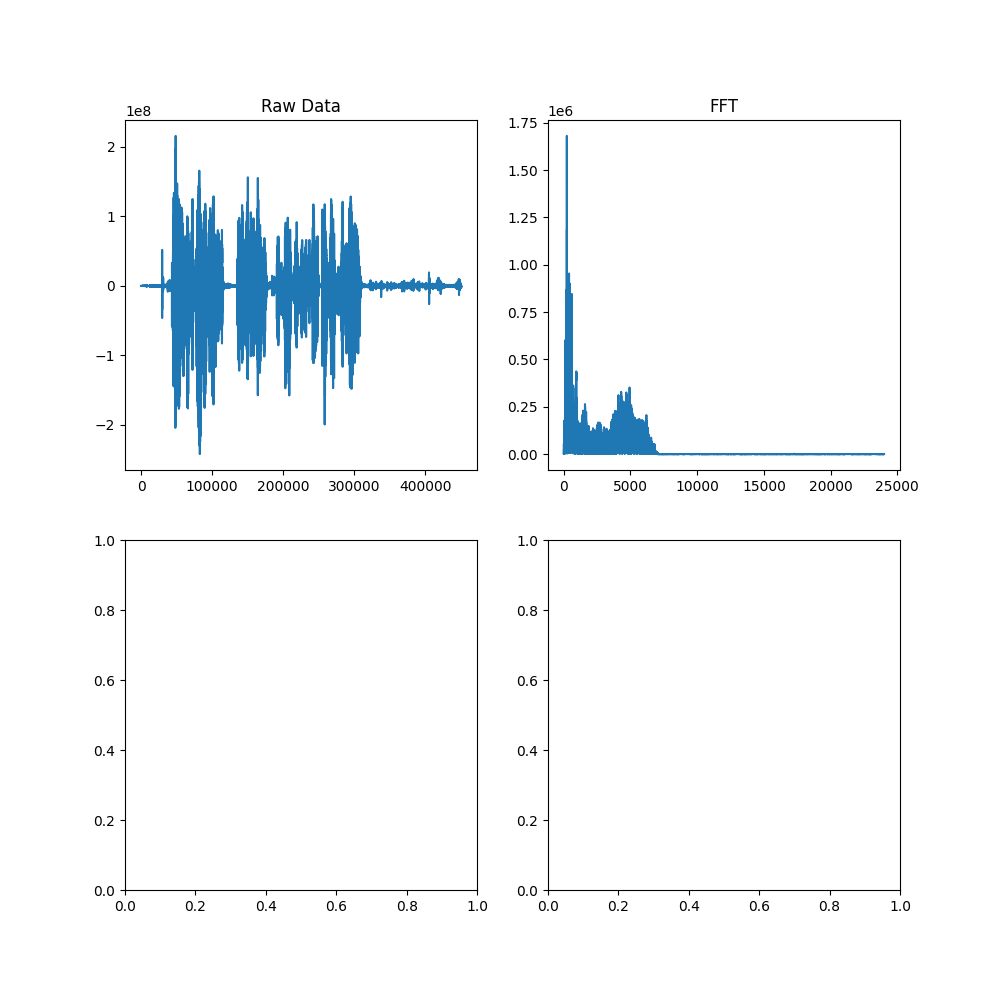
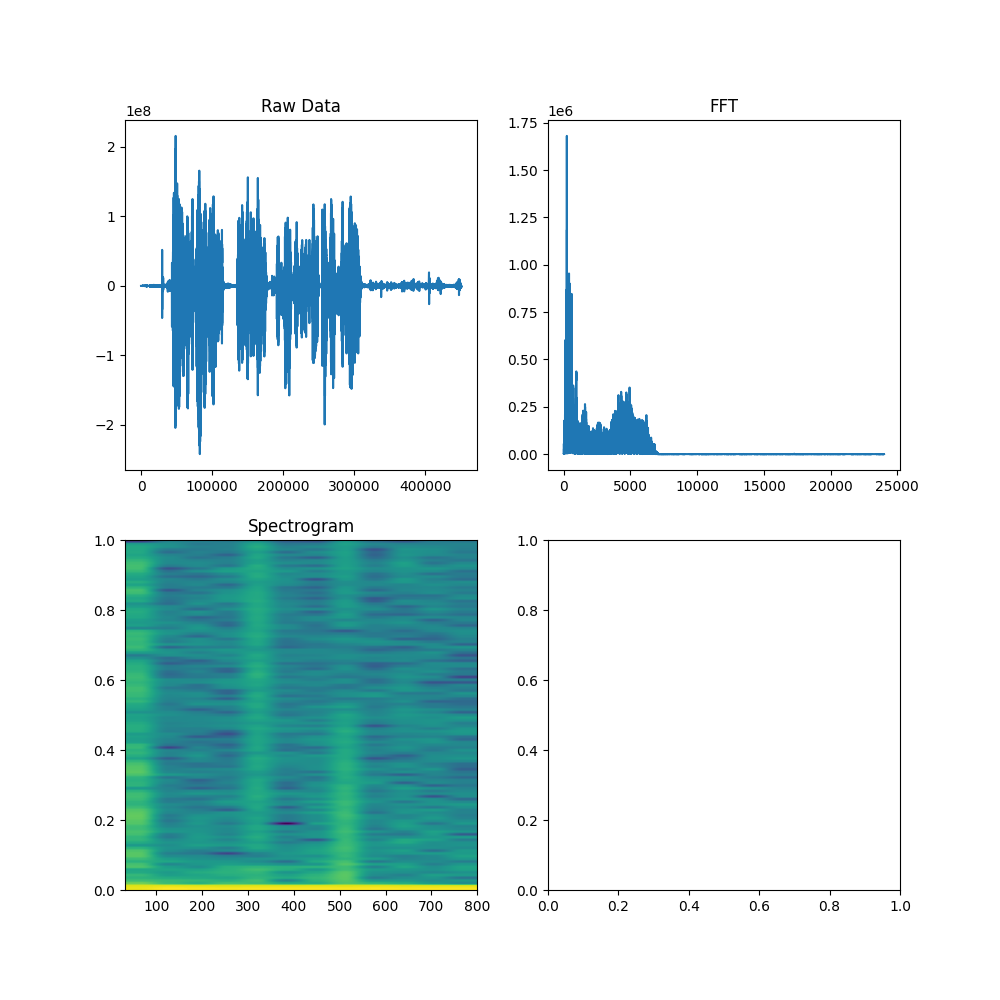
spectrogram!

Changed region(s): [[0.124, 0.496, 0.496, 0.93]]

diff --git a/scratchwork.py b/scratchwork.py
@@ -10,7 +10,7 @@ def wavHeader(wavefile: wave.Wave_read) -> dict:
             "Framerate": wavefile.getframerate(),
             "Num Frames": wavefile.getnframes(),}
 
-
+EPSILON = 1e-12
 
 def main():
 
@@ -25,6 +25,17 @@ def main():
     buffer_ft = np.fft.fft(buffer)
     x_ft = np.linspace(0, wavh['Framerate']/2, wavh['Num Frames']//2)
 
+    print("Computing Spectogram...")
+    N = 256
+    buffer_s = []
+    for k in np.arange(0, wavh['Num Frames'], N):
+        x = np.fft.fftshift(np.fft.fft(buffer[k:k+N], N))[N//2:N]
+        Pxx = 10*np.log10(np.real(x*np.conj(x))+EPSILON)
+        buffer_s.append(Pxx)
+
+    buffer_s = np.array(buffer_s)
+
+
     print("Plotting...")
     fig, ax = plt.subplots(2, 2, figsize=(10, 10))
 
@@ -33,6 +44,9 @@ def main():
 
     ax[0,1].plot(x_ft, 2.0/wavh['Num Frames'] * np.abs(buffer_ft[:wavh['Num Frames']//2]))
     ax[0,1].set_title('FFT')
+
+    ax[1,0].specgram(buffer_s[:,0])
+    ax[1,0].set_title('Spectrogram')
     
     plt.savefig('plot.png')
     
